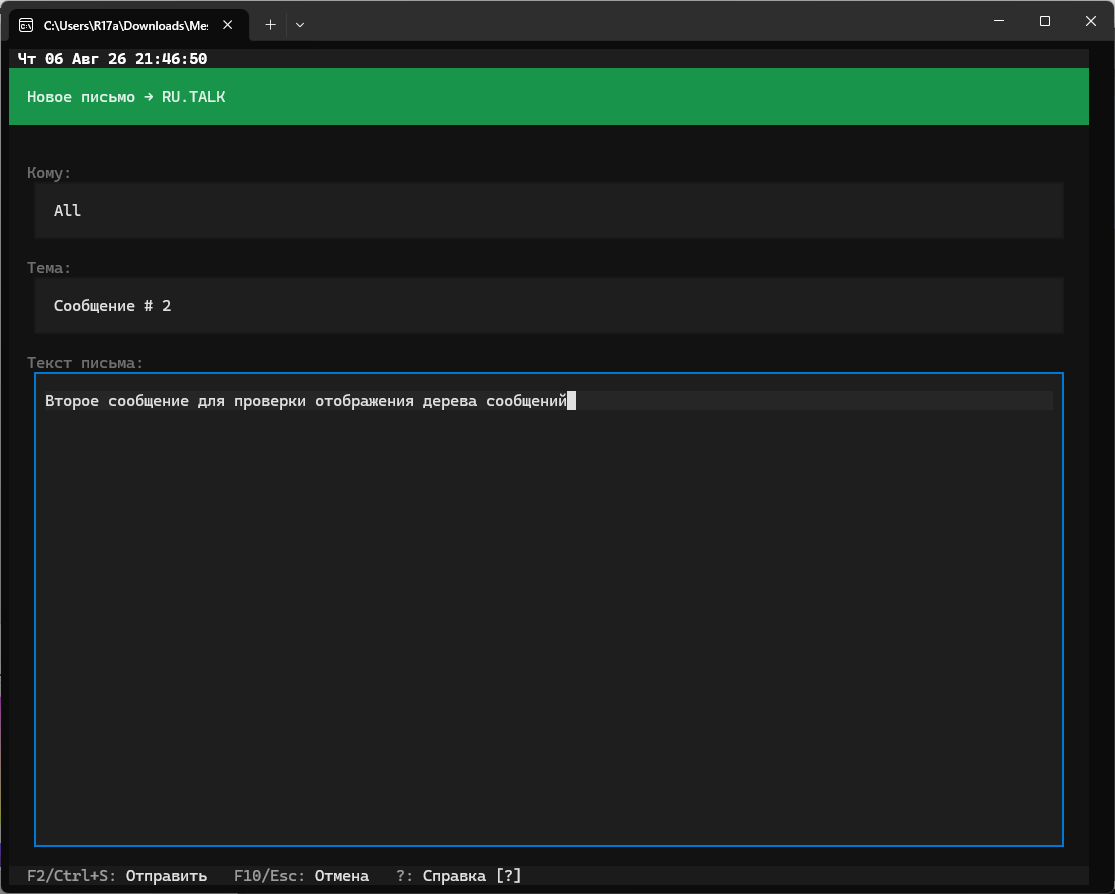
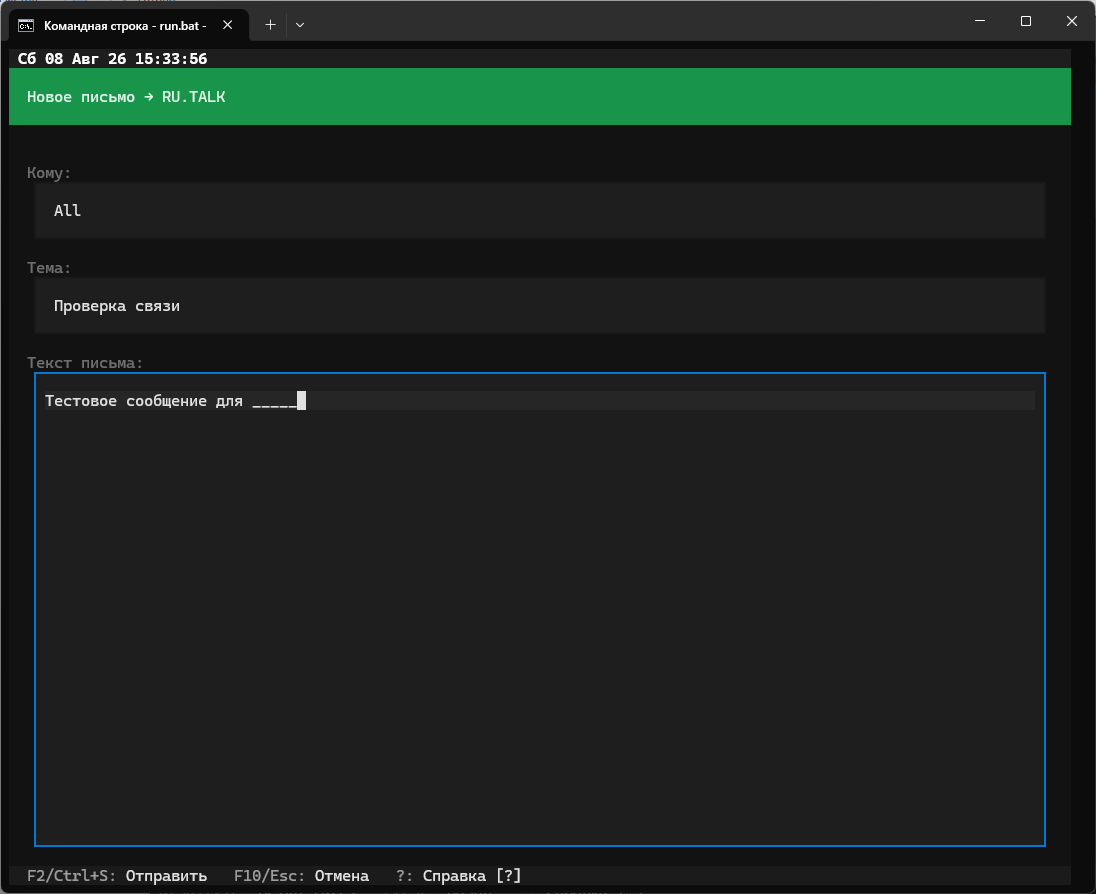
08.08.26 Demo update

diff --git a/Demo/RU.md b/Demo/RU.md
@@ -9,67 +9,68 @@
 
 ![Мастер настройки: имя, фамилия, выбор устройства, выбор языка](Sccreenshots/s1.RU.png)
 
-Первый экран при запуске программы: ввод имени/фамилии, выбор устройства (в том числе `Mock mode` — режим без платы, для тестирования) и выбор языка интерфейса.
+Первый экран при запуске программы: ввод имени/фамилии и выбор устройства (по умолчанию — `Mock-режим`, без платы, для тестирования).
 
-### 2. Подключение к плате по Bluetooth (BLE)
+### 2. Выбор способа подключения к плате
 
-![Мастер настройки: выбор Bluetooth (BLE), сканирование и выбор найденного устройства](Sccreenshots/s2.RU.png)
+![Мастер настройки: раскрытый список способов подключения — Mock-режим, реальное устройство по USB, Bluetooth (BLE), Сеть (TCP/WiFi)](Sccreenshots/s2.1.RU.png)
 
-Тот же мастер настройки, но с выбранным способом подключения `Bluetooth (BLE)`: сканирование эфира и выбор конкретной найденной платы по MAC-адресу.
+Раскрытый список доступных способов подключения: `Mock-режим` (без платы, для теста), `Реальное устройство` (автоопределение по USB), `Bluetooth (BLE)` и `Сеть (TCP/WiFi)`.
 
-### 3. Политика сети — принятие правил перед входом
+### 3. Подключение к плате по Bluetooth (BLE)
+
+![Мастер настройки: поле MAC-адреса, кнопка "Сканировать", найденное устройство в выпадающем списке, предупреждение про ESP32](Sccreenshots/s2.2.RU.png)
+
+Тот же мастер с выбранным способом подключения `Bluetooth (BLE)`: сканирование эфира, найденная плата `R17a_891c` по MAC-адресу и предупреждение о том, что на платах с чипом ESP32 прошивка Meshtastic отключает Bluetooth, пока включена сеть (WiFi/TCP) — это штатное поведение платы, а не баг программы.
+
+### 4. Политика сети — принятие правил перед входом
 
 ![Модальное окно "Политика сети" с 5 пунктами правил и кнопками Принять/Отклонить](Sccreenshots/s3.RU.png)
 
-Перед входом в сеть пользователь видит и подтверждает политику сети: уважение к радиоэфиру, неизменность иерархии Root Node, суверенитет модератора внутри своей эхоконференции, запрет коммерции и обязательный единый MQTT-мост между городами.
+Перед входом в сеть пользователь видит и подтверждает политику сети: уважение к радиоэфиру, неизменность иерархии Root Node, суверенитет модератора внутри своей эхоконференции, запрет коммерции и обязательный единый MQTT-мост (`mqtt.meshtastic.org`, общий PSK) между городами для узлов с инфраструктурными ролями.
 
-### 4. Главный экран — список областей
+### 5. Главный экран — список областей
 
-![Список областей: System/Новости, Личная почта, Локальные папки, Эхоконференции RU/EN/ZH](Sccreenshots/s4.RU.png)
+![Список областей: System/Новости, Личная почта, Локальные папки, Эхоконференции RU/EN/ZH](Sccreenshots/s4.1.RU.png)
+![Тот же список областей позже в сессии](Sccreenshots/s4.2.RU.png)
 
-Главный экран приложения в стиле GoldED: служебная область `SYS.ANNOUNCE`, личная почта (`NETMAIL`), локальные папки (`ARCHIVE`/`IN`/`OUT`) и стартовый набор эхоконференций (`EN.TALK`, `RU.TALK`, `ZH.TALK`).
+Главный экран приложения в стиле GoldED: служебная область `SYS.ANNOUNCE`, личная почта (`NETMAIL`), локальные папки (`ARCHIVE`/`IN`/`OUT`) и стартовый набор эхоконференций (`EN.TALK`, `RU.TALK`, `ZH.TALK`). Второй скриншот — тот же экран позже в сессии, при возврате к нему из других режимов.
 
-### 5. Список соседних узлов (F6)
+### 6. Список соседних узлов (F6)
 
-![Таблица соседних узлов: роли, число хопов, способ связи, индикатор интернета](Sccreenshots/s5.RU.png)
+![Таблица соседних узлов: роли, путь до узла с числом хопов, индикатор интернета](Sccreenshots/s5.RU.png)
 
-Экран "Соседние узлы" (клавиша F6): собственный узел, узлы-участники (CLIENT/CLIENT_MUTE/CLIENT_BASE) с числом хопов и способом связи (напрямую/ретрансляция), а также отдельно — технические узлы (например, SENSOR). У своего узла виден индикатор выхода в интернет.
+Экран "Соседние узлы" (клавиша F6): счётчик `доступные / известные` в заголовке, собственный узел, узлы-участники (`CLIENT`/`CLIENT_MUTE`/`CLIENT_BASE`) с колонкой "Путь", где число хопов объединено со способом связи (например, «7 прыжков от вас, через MQTT» или «Неизвестно»). У своего узла виден индикатор выхода в интернет.
 
-### 6. Журнал подключения (F9)
+### 7. Журнал подключения (F9)
 
-![Журнал: запуск MQTT-моста, подключение по Bluetooth, обнаружение соседних узлов](Sccreenshots/s6.RU.png)
+![Журнал: запуск MQTT-моста, подписка на топики, приём и отправка пакетов](Sccreenshots/s6.RU.png)
 
-Диагностический журнал подключения (клавиша F9): запуск MQTT-моста к брокеру, поиск и подключение платы по Bluetooth, обнаружение соседних узлов — всё на языке интерфейса.
+Диагностический журнал подключения (клавиша F9): запуск MQTT-моста к брокеру `mqtt.meshtastic.org`, подписка на `msh/RU/#`, приём и отправка пакетов по топикам `msh/RU/2/e/LongFast/!<id>` (включая шифрованный канал `PKI`) — всё на языке интерфейса.
 
-### 7. Написание нового письма в эхоконференцию
+### 8. Чтение письма — ответ с цитированием
 
-![Редактор нового письма: получатель All, тема, текст сообщения](Sccreenshots/s7.RU.png)
+![Экран чтения письма: заголовок AREA/FROM/TO/DATE/SUBJ "Re: Проверка!" и текст с цитатой исходного сообщения](Sccreenshots/s8.RU.png)
+
+Чтение письма-ответа в эхоконференции `RU.TALK` (2 из 3 в области) — область, отправитель, получатель, дата и тема в шапке, ниже текст с автоматически подставленной цитатой исходного сообщения.
+
+### 9. Написание нового письма в эхоконференцию
+
+![Редактор нового письма: получатель All, тема "Проверка связи", ввод текста сообщения](Sccreenshots/s9.RU.png)
 
 Встроенный редактор для нового письма в эхоконференцию `RU.TALK` — получатель, тема и текст сообщения.
 
-### 8. Чтение отправленного письма
-
-![Экран чтения письма с заголовком AREA/FROM/TO/DATE/SUBJ и текстом](Sccreenshots/s8.RU.png)
-
-То же письмо в режиме чтения — область, отправитель, получатель, дата и тема в шапке, текст письма ниже.
-
-### 9. Ответ в этой же эхоконференции
-
-![Редактор второго письма в ту же эхоконференцию](Sccreenshots/s9.RU.png)
-
-Второе письмо в ту же эхоконференцию — специально для проверки последующего отображения дерева переписки.
-
 ### 10. Дерево переписки (Thread Tree)
 
-![Список писем в эхоконференции с включённым деревом переписки: тема и ответ на неё](Sccreenshots/s10.RU.png)
+![Список писем в эхоконференции с включённым деревом переписки: тема, вложенный ответ на неё и отдельная вторая тема](Sccreenshots/s10.RU.png)
 
-Список писем эхоконференции с включённым режимом "Дерево переписки" (Thread Tree) — ответ визуально вложен под исходное письмо.
+Список писем эхоконференции с включённым режимом "Дерево переписки" (Thread Tree) — ответ визуально вложен под исходное письмо, рядом отдельной веткой отображается вторая, не связанная с первой, тема.
 
 ### 11. Встроенная справка — горячие клавиши (часть 1)
 
 ![Справка: список областей, чтение сообщений — горячие клавиши](Sccreenshots/s11.RU.png)
 
-Встроенная справка по горячим клавишам (`?`): навигация по списку областей и по режиму чтения сообщений.
+Встроенная справка по горячим клавишам (`?`): навигация по списку областей (включая `F6` — список соседних узлов и `F9` — журнал подключения) и по режиму чтения сообщений.
 
 ### 12. Встроенная справка — горячие клавиши (часть 2)
 
